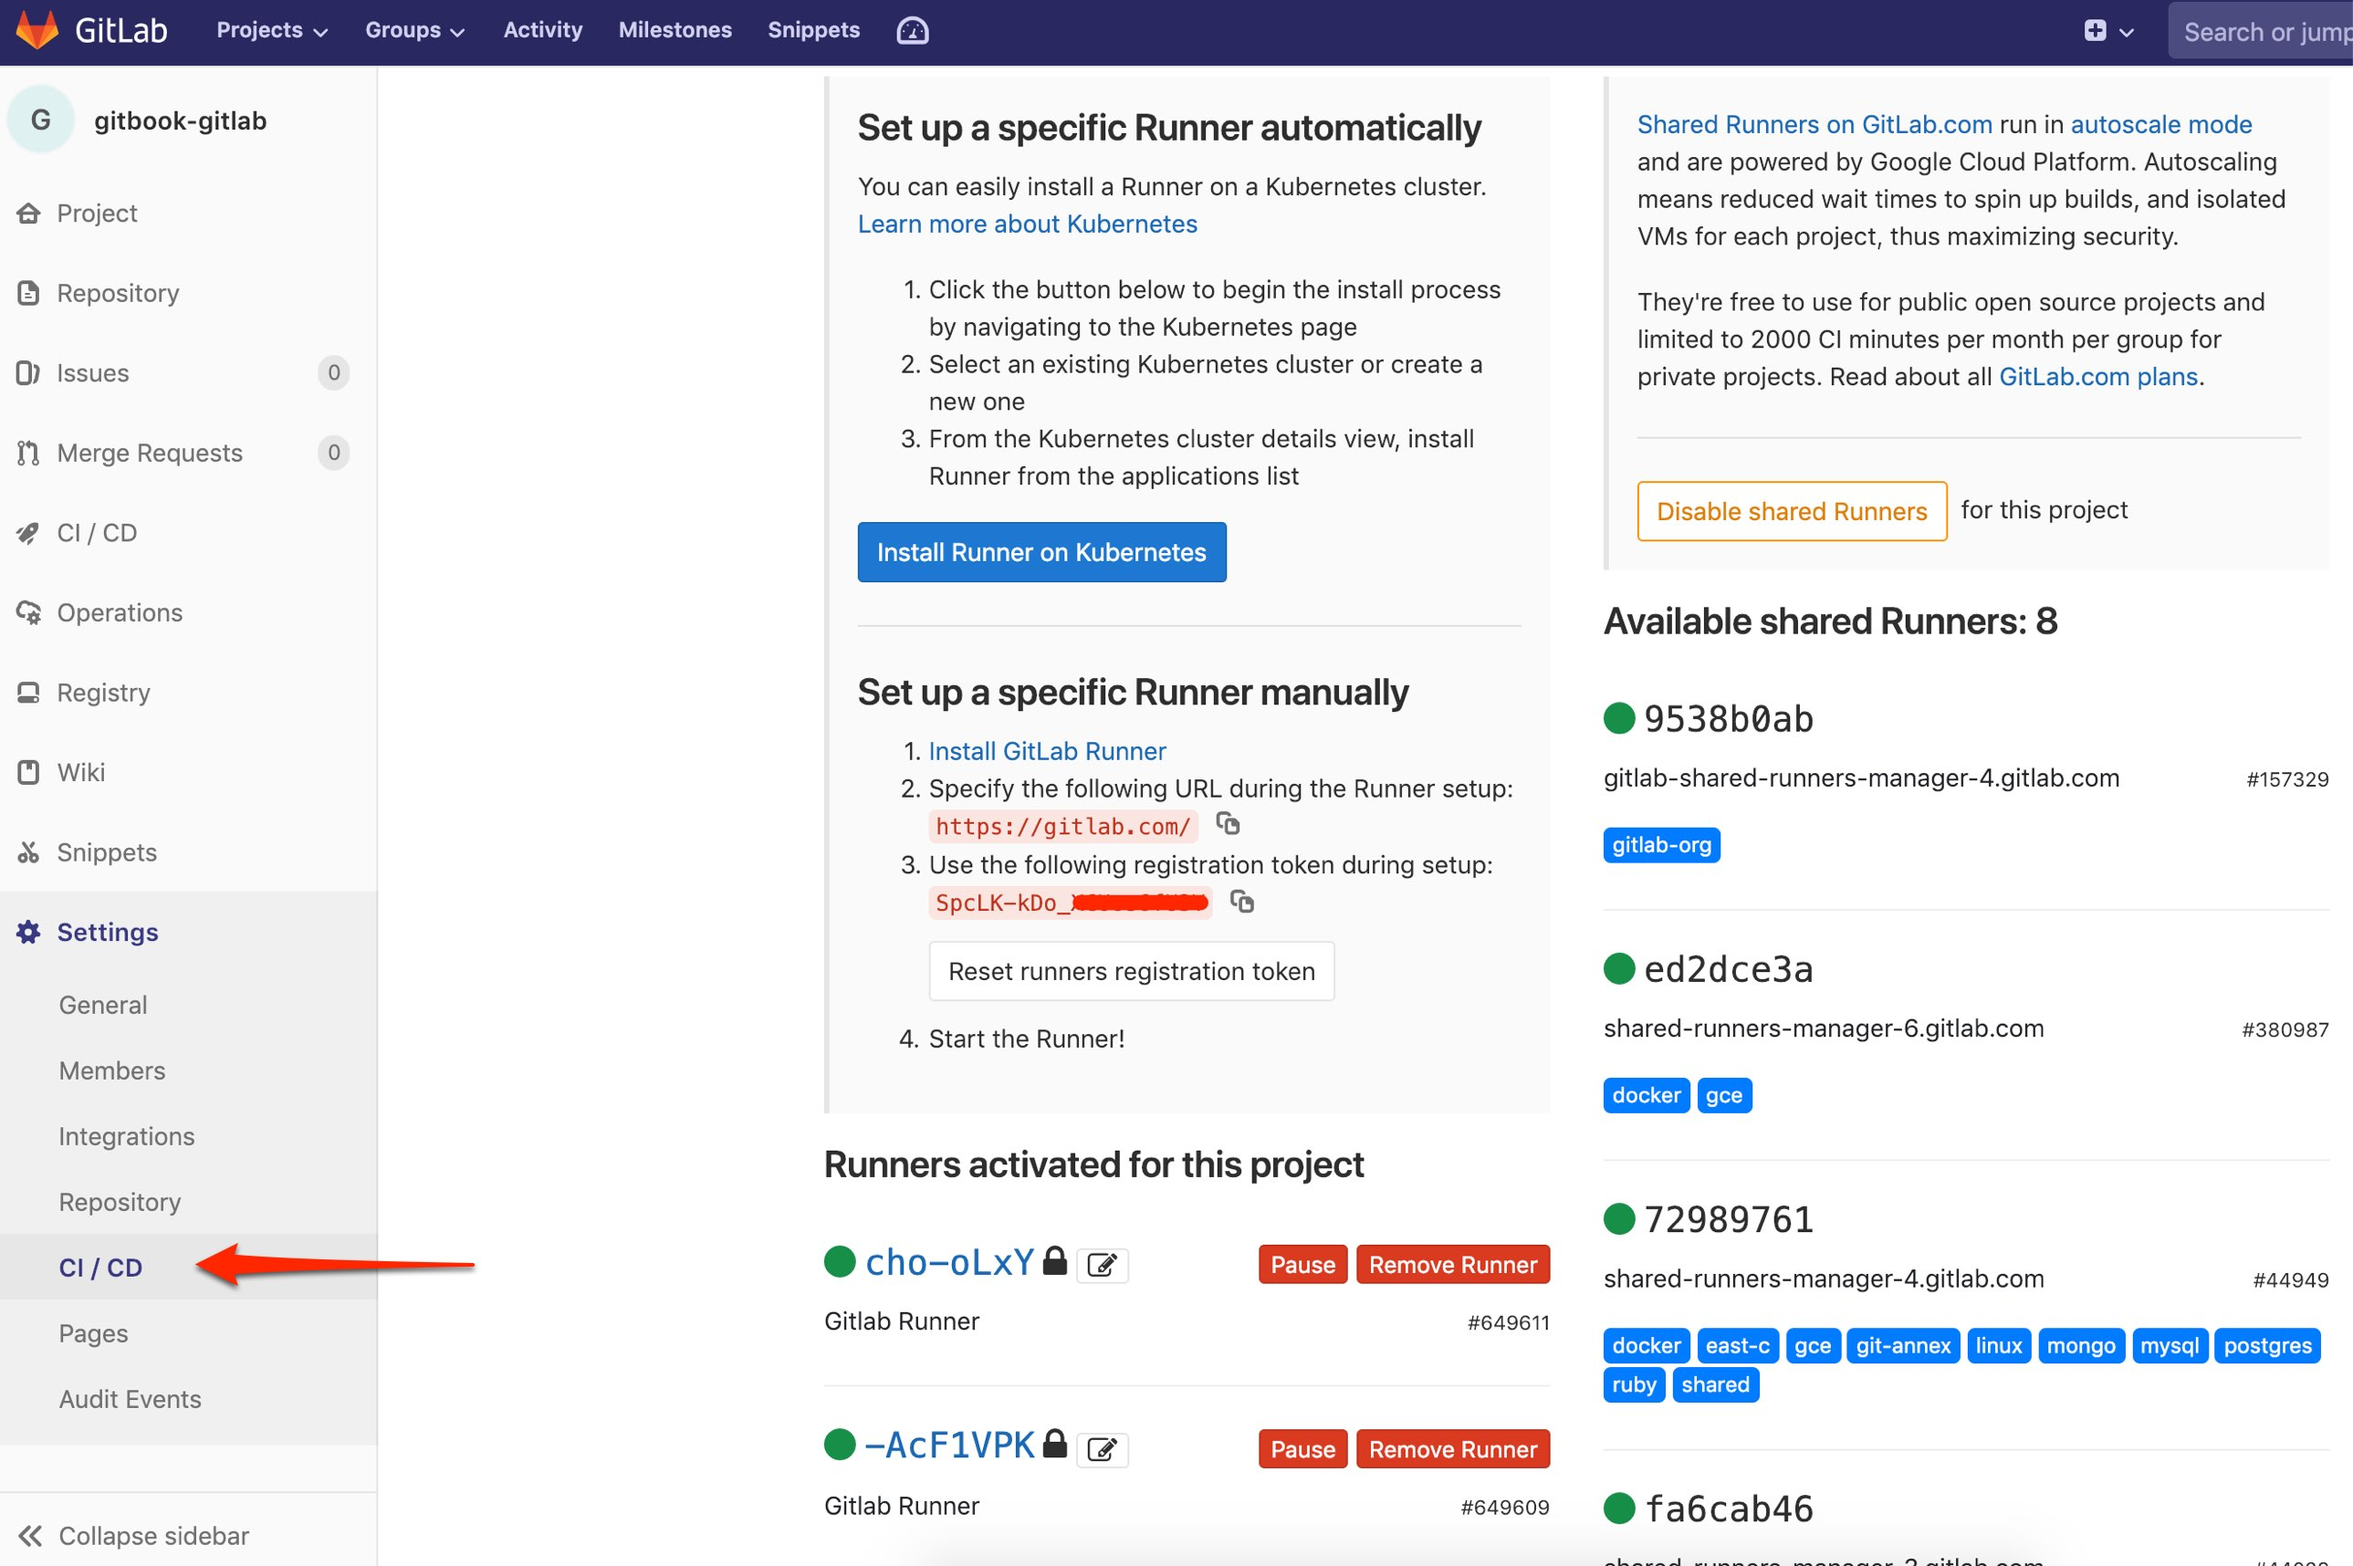
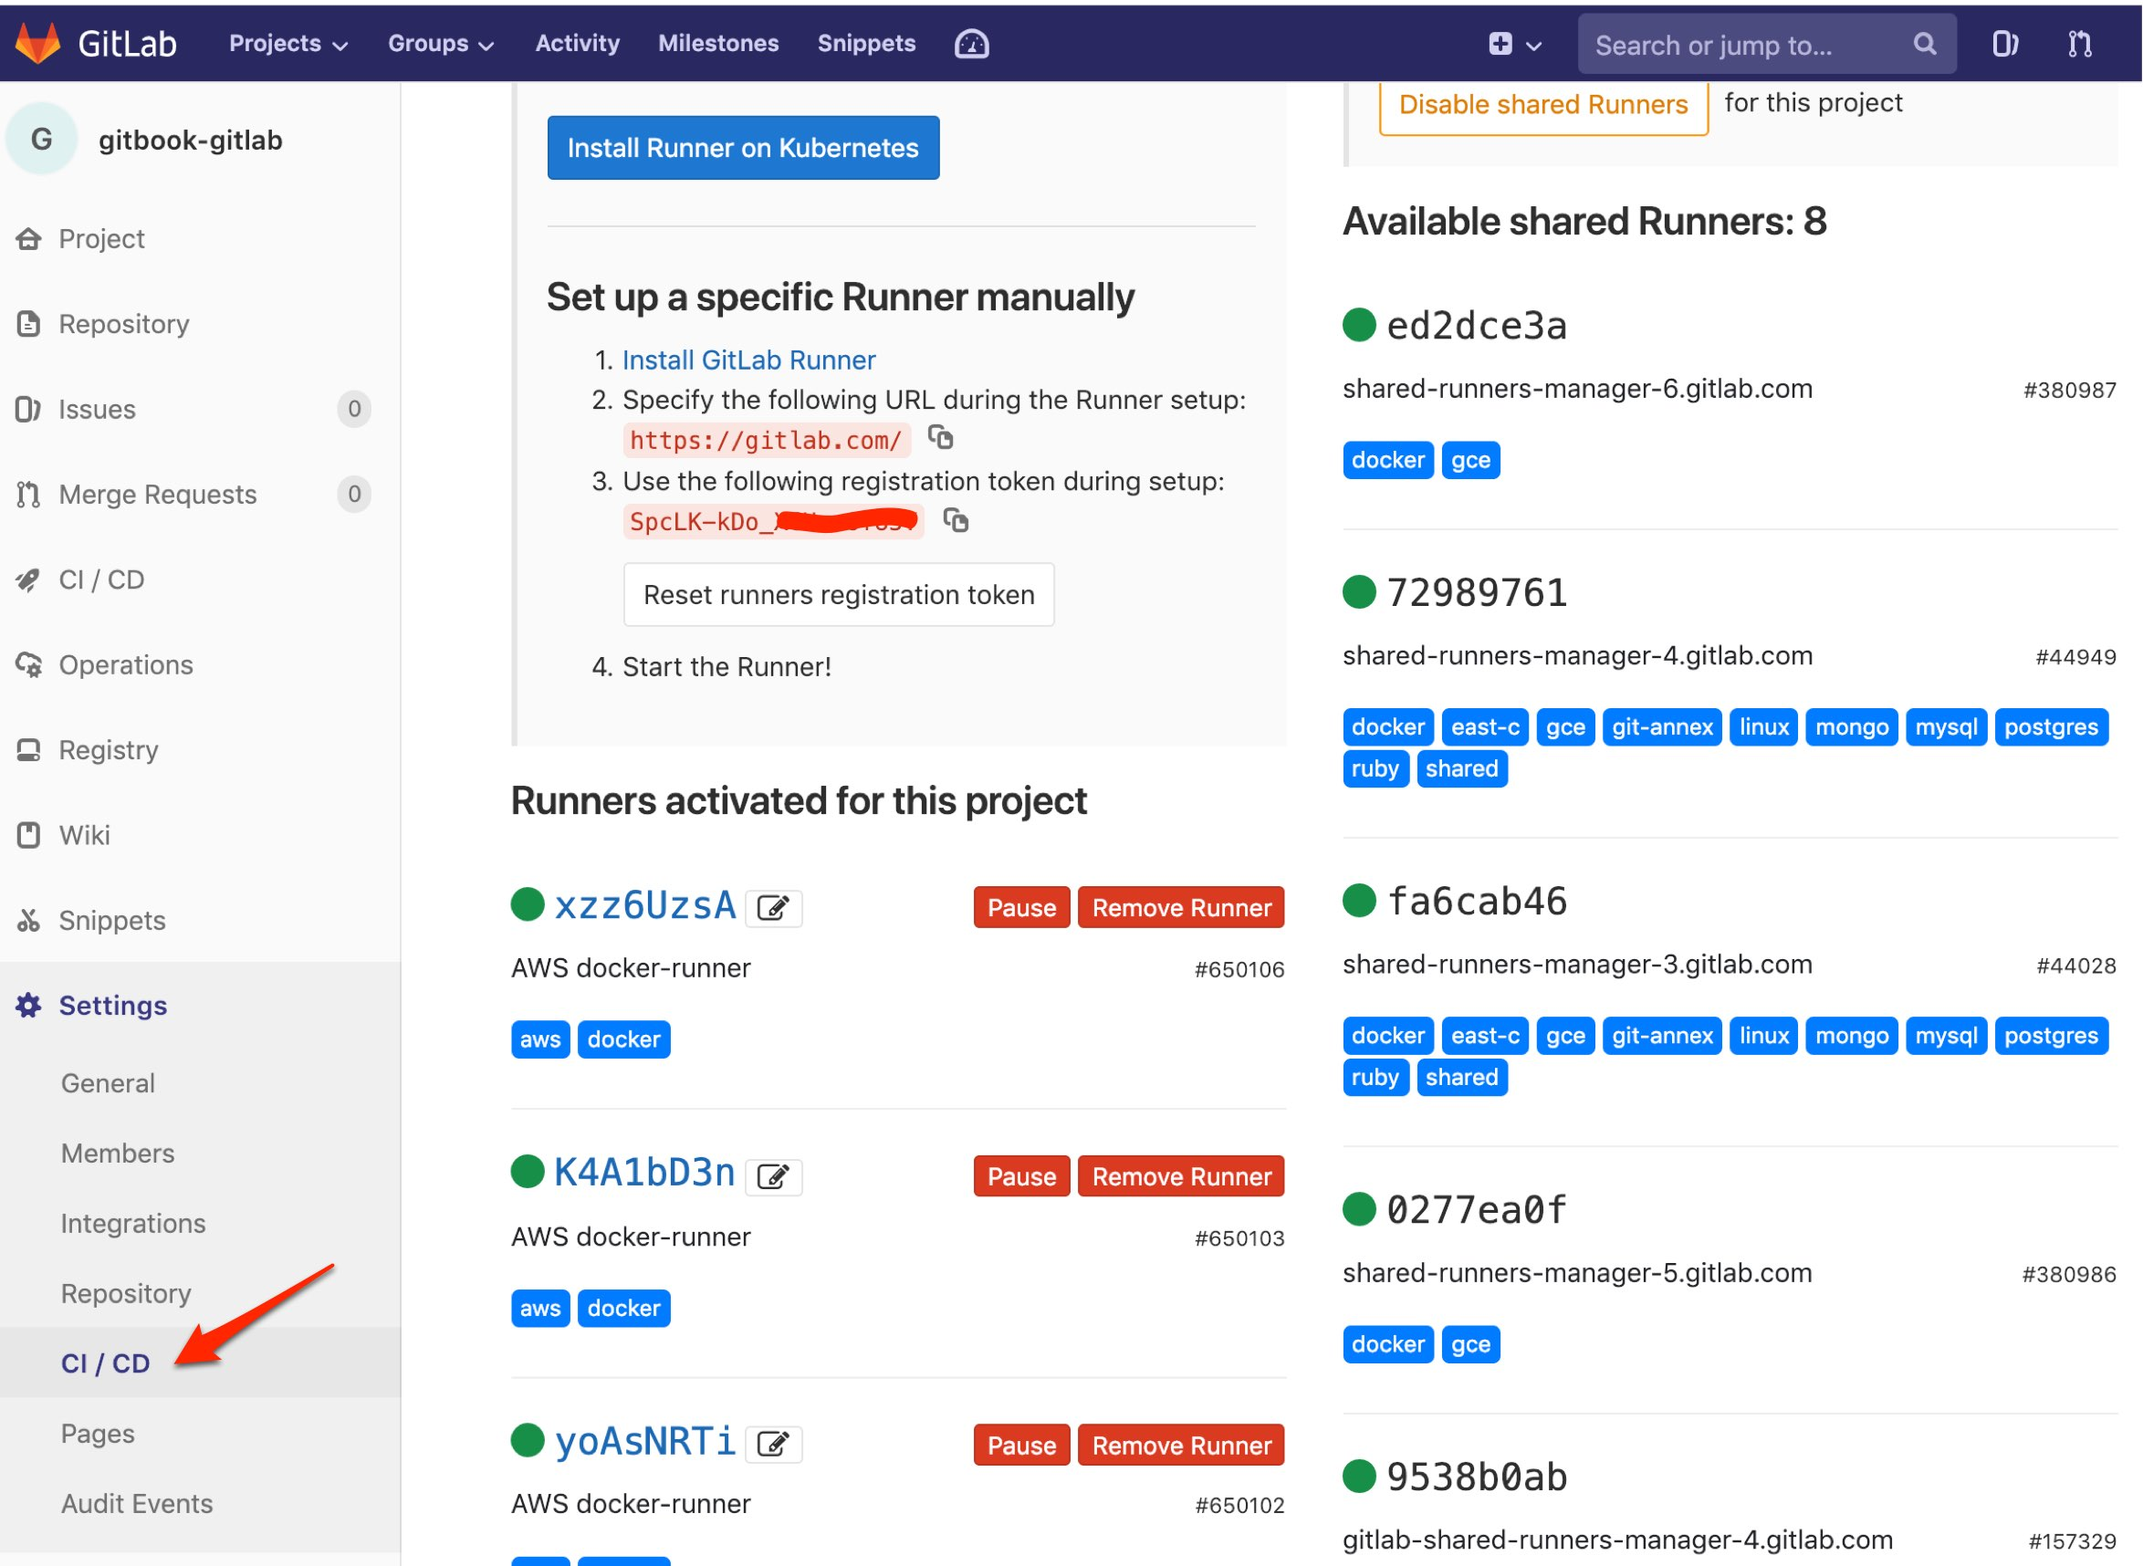
update

diff --git a/content/instance-gitlab-runner.md b/content/instance-gitlab-runner.md
@@ -12,11 +12,13 @@ Installation de [GitLab Community Edition AMI sur l'AWS Marketplace](https://aws
 
 ![GitLab Community Edition AMI sur l'AWS Marketplace](/images/AWS-Marketplace-GitLab-Community-Edition.jpg)
 
-L'image est gratuite et une instance t2.medium (2 vCPUs et 4G RAM) est recommandé selon un modèle de coût pour une seule instance :
+L'image est gratuite mais **une instance t2.medium (2 vCPUs et 4G RAM) est recommandée**. Selon un modèle de coût pour une seule instance, on peut estimer le prix :
 
 * 0,054 $ /heure
 * 1,3 $ /jour
 * 40,18 $ /mois
+
+On évaluera finement les ressources nécessaires à un runner.
 
 ### 1.2. Installation manuelle
 
@@ -72,7 +74,7 @@ Pour que votre instance devienne un noeud d'exécution Gitlab, veuillez vous ren
 sudo gitlab-runner register \
   --non-interactive \
   --url "https://gitlab.com/" \
-  --registration-token "PROJECT_REGISTRATION_TOKEN" \
+  --registration-token "$PROJECT_REGISTRATION_TOKEN" \
   --executor "docker" \
   --docker-image alpine:3 \
   --description "docker-runner" \
@@ -96,4 +98,50 @@ En revenant sur la page Settings/CI CD/Runners du projet Gitlab, on devrait y tr
 
 ## 5. Scénario de vie / Orchestration
 
-...
+### 5.1. Approvisionnement automatique du runner
+
+#### Installation, enrigistrement et démarrage de gitlab runner
+
+Veuillez vérifier tous les paramètres.
+
+```bash
+#!/bin/bash
+
+# Gitlab runner installation
+PROJECT_REGISTRATION_TOKEN="SpcLK-kDo_cle"
+apt-get update && apt-get -y upgrade
+apt-get -y install curl
+curl -L https://packages.gitlab.com/install/repositories/runner/gitlab-runner/script.deb.sh | sudo bash
+apt-get -y install gitlab-runner
+gitlab-runner register \
+  --non-interactive \
+  --url "https://gitlab.com/" \
+  --registration-token "$PROJECT_REGISTRATION_TOKEN" \
+  --executor "docker" \
+  --docker-image alpine:3 \
+  --description "AWS docker-runner" \
+  --tag-list "docker,aws" \
+  --run-untagged \
+  --locked="false"
+gitlab-runner start
+```
+
+#### Installation de Docker CE
+
+```bash
+# Docker installation
+apt-get -y install \
+	apt-transport-https \
+  ca-certificates \
+  curl \
+  gnupg2 \
+  software-properties-common
+curl -fsSL https://download.docker.com/linux/ubuntu/gpg | sudo apt-key add -
+add-apt-repository \
+   "deb [arch=amd64] https://download.docker.com/linux/ubuntu \
+   $(lsb_release -cs) \
+   stable"
+apt-get update
+apt-get install docker-ce
+
+```
